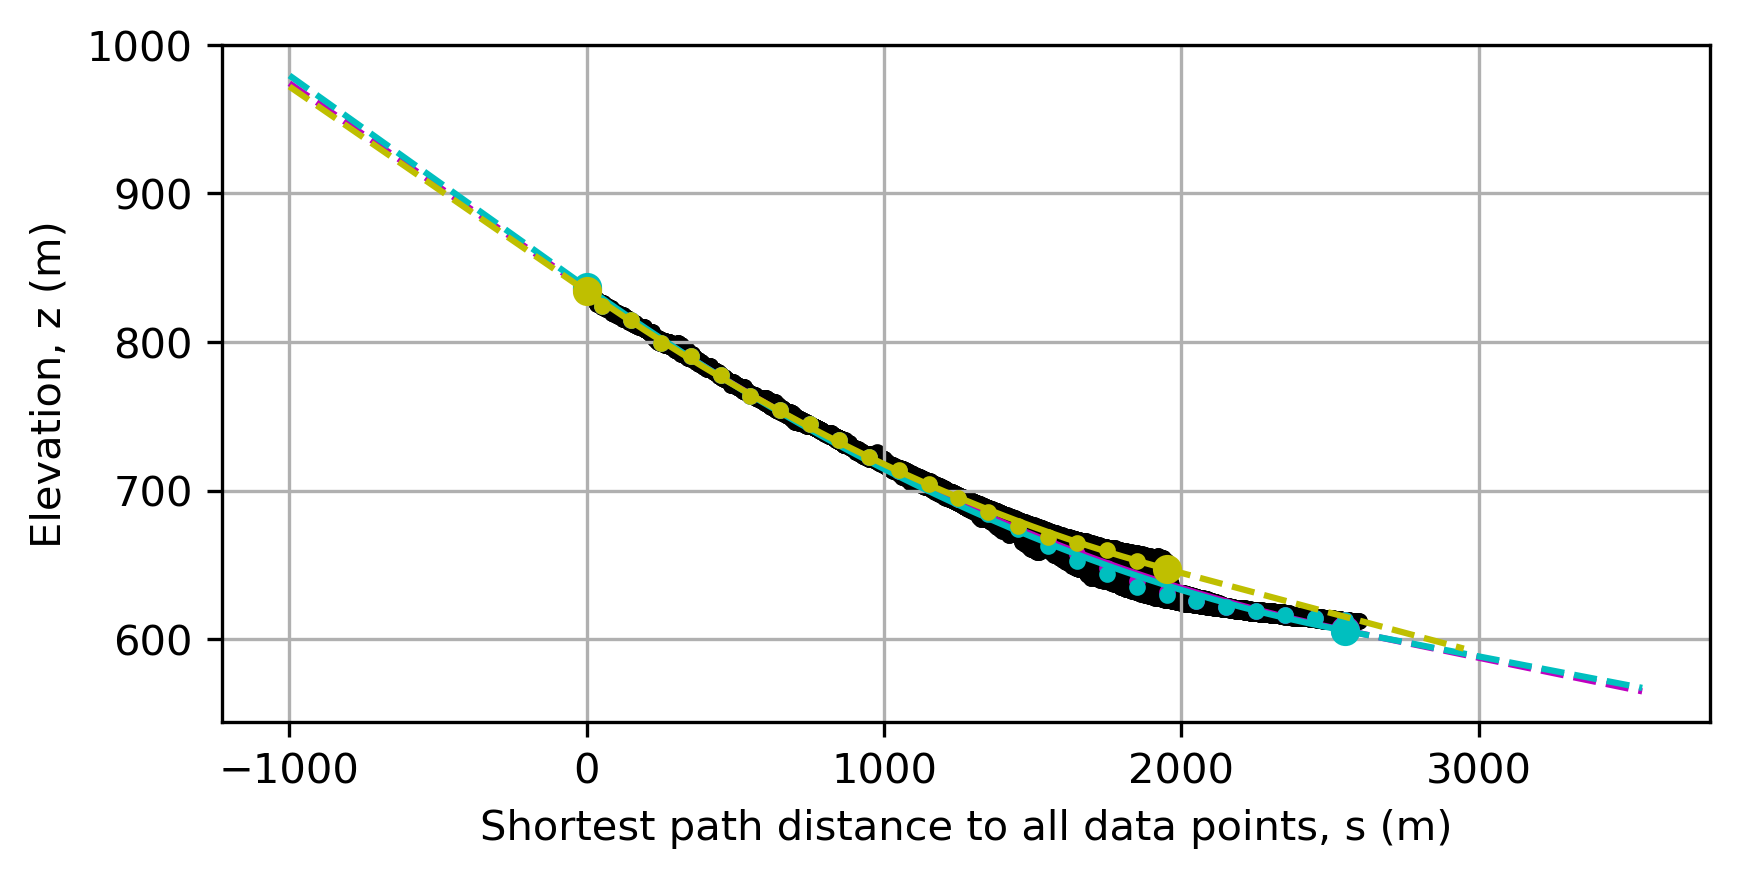
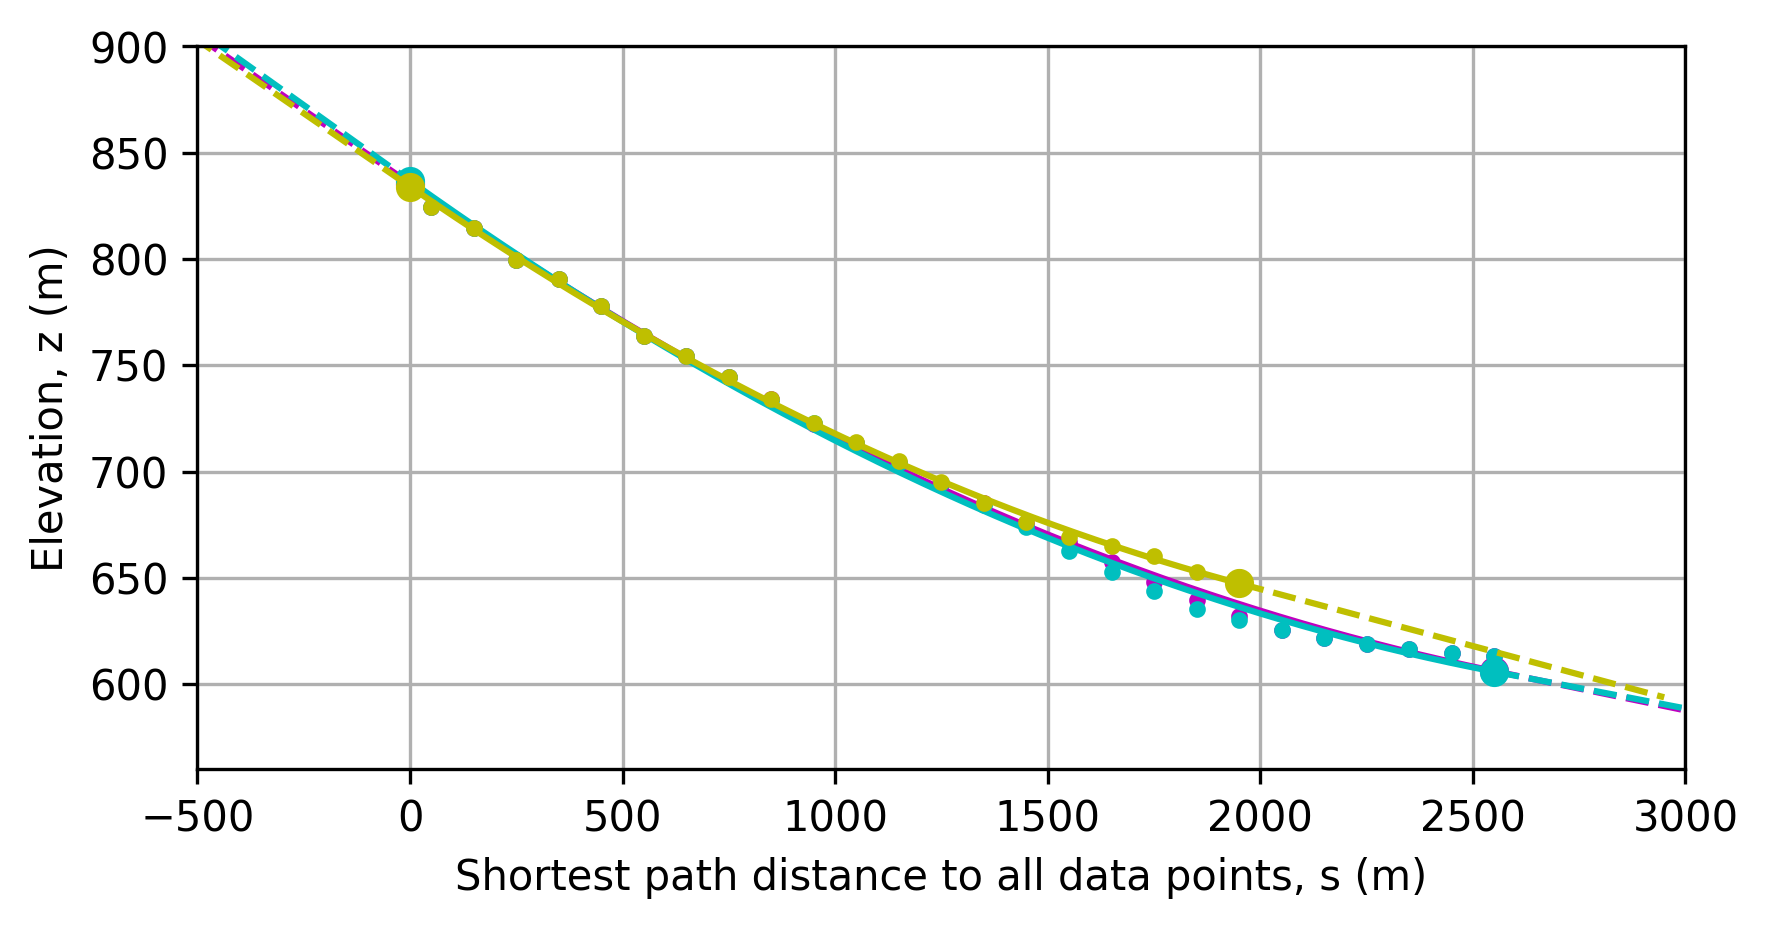
update plotting codes

diff --git a/EDR_event2024_all_left_right_slope.py b/EDR_event2024_all_left_right_slope.py
@@ -17,15 +17,46 @@ if __name__ == "__main__":
     ds = 5
     outlength = 1000
 
-    _, _, zMesh_crop_all, sMesh_crop_all = SPM(topo_post_event, shape_fan_boundary_all).within_boundary(pltFlag = True)
-    _, _, zMesh_crop_left, sMesh_crop_left = SPM(topo_post_event, shape_fan_boundary_left).within_boundary(pltFlag = True)
-    _, _, zMesh_crop_right, sMesh_crop_right = SPM(topo_post_event, shape_fan_boundary_right).within_boundary(pltFlag = True)
+    _, _, zMesh_crop_all, sMesh_crop_all = SPM(topo_post_event, shape_fan_boundary_all).within_boundary(pltFlag = False)
+    _, _, zMesh_crop_left, sMesh_crop_left = SPM(topo_post_event, shape_fan_boundary_left).within_boundary(pltFlag = False)
+    _, _, zMesh_crop_right, sMesh_crop_right = SPM(topo_post_event, shape_fan_boundary_right).within_boundary(pltFlag = False)
+
+    xmin, xmax, ymin, ymax = -500, 3000, 560, 900
 
     plt.figure()
     EDR_all = EDR(sMesh_crop_all, zMesh_crop_all, drawFlag = True)
-    EDR_left = EDR(sMesh_crop_left, zMesh_crop_left, drawFlag = True)
-    EDR_right = EDR(sMesh_crop_right, zMesh_crop_right, drawFlag = True)
+    EDR_all.medianFilter_on(bin_size, ds, outlength, pltFlag = False, drawFlag = 'm')
+    plt.xlabel('Shortest path distance to all data points, s (m)')
+    plt.ylabel('Elevation, z (m)')
+    plt.gca().set_aspect(5)
+    plt.grid(True)
+    plt.box(True)
+    plt.axis([xmin, xmax, ymin, ymax])
+    plt.savefig(r'results\event2024_all_left_right_slope\EDR_compare_all.png', dpi=300, bbox_inches='tight')
 
+    plt.figure()
+    EDR_left = EDR(sMesh_crop_left, zMesh_crop_left, drawFlag = True)
+    EDR_left.medianFilter_on(bin_size, ds, outlength, pltFlag = False, drawFlag = 'c')
+    plt.xlabel('Shortest path distance to all data points, s (m)')
+    plt.ylabel('Elevation, z (m)')
+    plt.gca().set_aspect(5)
+    plt.grid(True)
+    plt.box(True)
+    plt.axis([xmin, xmax, ymin, ymax])
+    plt.savefig(r'results\event2024_all_left_right_slope\EDR_compare_left.png', dpi=300, bbox_inches='tight')
+
+    plt.figure()
+    EDR_right = EDR(sMesh_crop_right, zMesh_crop_right, drawFlag = True)
+    EDR_right.medianFilter_on(bin_size, ds, outlength, pltFlag = False, drawFlag = 'y')
+    plt.xlabel('Shortest path distance to all data points, s (m)')
+    plt.ylabel('Elevation, z (m)')
+    plt.gca().set_aspect(5)
+    plt.grid(True)
+    plt.box(True)
+    plt.axis([xmin, xmax, ymin, ymax])
+    plt.savefig(r'results\event2024_all_left_right_slope\EDR_compare_right.png', dpi=300, bbox_inches='tight')
+
+    plt.figure()
     EDR_all.medianFilter_on(bin_size, ds, outlength, pltFlag = False, drawFlag = 'm')
     EDR_left.medianFilter_on(bin_size, ds, outlength, pltFlag = False, drawFlag = 'c')
     EDR_right.medianFilter_on(bin_size, ds, outlength, pltFlag = False, drawFlag = 'y')
@@ -34,8 +65,6 @@ if __name__ == "__main__":
     plt.gca().set_aspect(5)
     plt.grid(True)
     plt.box(True)
-    plt.savefig('EDR_compare.png', dpi=300, bbox_inches='tight')
+    plt.axis([xmin, xmax, ymin, ymax])
+    plt.savefig(r'results\event2024_all_left_right_slope\EDR_compare.png', dpi=300, bbox_inches='tight')
     plt.show(block = True)
-    
-
-

diff --git a/src/plt_utils.py b/src/plt_utils.py
@@ -2,12 +2,17 @@ from osgeo import ogr
 import matplotlib.pyplot as plt
 from matplotlib.colors import LightSource
 
-def plot_polygon_boundary_gdal(shapefile_path):
+import matplotlib.pyplot as plt
+from osgeo import ogr
+
+def plot_polygon_boundary_gdal(shapefile_path, exterior_color='b', interior_color='r'):
     """
     Reads a shapefile using GDAL and plots the boundary of the polygon(s) it contains.
 
     Parameters:
         shapefile_path (str): Path to the shapefile.
+        exterior_color (str): Color for the exterior polygon boundary.
+        interior_color (str): Color for the interior polygon boundaries (holes).
 
     Returns:
         None
@@ -23,19 +28,21 @@ def plot_polygon_boundary_gdal(shapefile_path):
         
         # Check if the geometry is a polygon or multipolygon
         if geom.GetGeometryType() == ogr.wkbPolygon:
-            plot_polygon(geom)
+            plot_polygon(geom, exterior_color, interior_color)
         elif geom.GetGeometryType() == ogr.wkbMultiPolygon:
             for i in range(geom.GetGeometryCount()):
                 polygon = geom.GetGeometryRef(i)
-                plot_polygon(polygon)
+                plot_polygon(polygon, exterior_color, interior_color)
 
 
-def plot_polygon(polygon):
+def plot_polygon(polygon, exterior_color, interior_color):
     """
     Plots a polygon's boundary, including interior rings (holes).
 
     Parameters:
         polygon (ogr.Geometry): A polygon geometry.
+        exterior_color (str): Color for the exterior polygon boundary.
+        interior_color (str): Color for the interior polygon boundaries (holes).
 
     Returns:
         None
@@ -44,7 +51,7 @@ def plot_polygon(polygon):
     exterior_ring = polygon.GetGeometryRef(0)
     exterior_points = exterior_ring.GetPoints()
     x_exterior, y_exterior = zip(*exterior_points)
-    plt.plot(x_exterior, y_exterior, 'b-')  # 'b-' for blue solid line
+    plt.plot(x_exterior, y_exterior, color=exterior_color, linestyle='-', label='Exterior')
 
     # Plot interior rings (holes) if any
     num_interior_rings = polygon.GetGeometryCount() - 1
@@ -52,7 +59,9 @@ def plot_polygon(polygon):
         interior_ring = polygon.GetGeometryRef(i)
         interior_points = interior_ring.GetPoints()
         x_interior, y_interior = zip(*interior_points)
-        plt.plot(x_interior, y_interior, 'b-')  # 'r-' for red solid line (or any color you prefer)
+        plt.plot(x_interior, y_interior, color=interior_color, linestyle='-', label='Interior')
+
+
 
 
 

diff --git a/fill_fanTopo.py b/fill_fanTopo.py
@@ -11,6 +11,7 @@ zTopo = [r"results\zTopo_2024_all.tif",
 fanBoundary = [r"datasets\raw\shape\PT2024.shp",
                r"datasets\raw\shape\PT2024_left.shp",
                r"datasets\raw\shape\PT2024_right.shp"]
+color_sequence = ['m', 'c', 'y']
 
 title_str = ['All', 'Left', 'Right']
 zInit = r"datasets\raw\tif\topo_10m_PuTunPuNas_pre_2024_min_base2024.tif"
@@ -37,15 +38,15 @@ for i in range(len(zTopo)):
 
     plt_utils.plot_hillshade(xMesh, yMesh, zPostMesh, azdeg=180, altdeg=45, vert_exag=5)
     plt.contour(xMesh, yMesh, zPostMesh, levels=levels, colors='k', linewidths=0.7)
-    plt_utils.plot_polygon_boundary_gdal(fanBoundary[i])
-    plt.axis([226905, 229635, 2564093, 2567691])
+    plt_utils.plot_polygon_boundary_gdal(fanBoundary[i], exterior_color=color_sequence[i], interior_color=color_sequence[i])
+    plt.axis([226905, 229635, 2564700, 2567200])
     plt.colorbar(label='Hillshade intensity')
     plt.savefig('results/fill_fanTopo/' + title_str[i] + '_fig2.png', dpi=300)
 
     plt_utils.plot_hillshade(xMesh, yMesh, zMapMesh, azdeg=180, altdeg=45, vert_exag=5)
     gis_utils.calculate_volume_difference_within_polygon(zPost, zTopo[i], output_resampled_path=None, pltFlag=True, colorBarStr='z_sim - z_field', vmin = -20, vmax = 20)
     plt.contour(xMesh, yMesh, zMapMesh, levels=levels, colors='k', linewidths=0.7)
-    plt_utils.plot_polygon_boundary_gdal(fanBoundary[0])
+    plt_utils.plot_polygon_boundary_gdal(fanBoundary[0], exterior_color='b', interior_color='b')
     plt.title(title_str[i] + ' Simulation Error')
     plt.axis([226905, 229635, 2564093, 2567691])
     plt.savefig('results/fill_fanTopo/' + title_str[i] + '_fig3.png', dpi=300)
